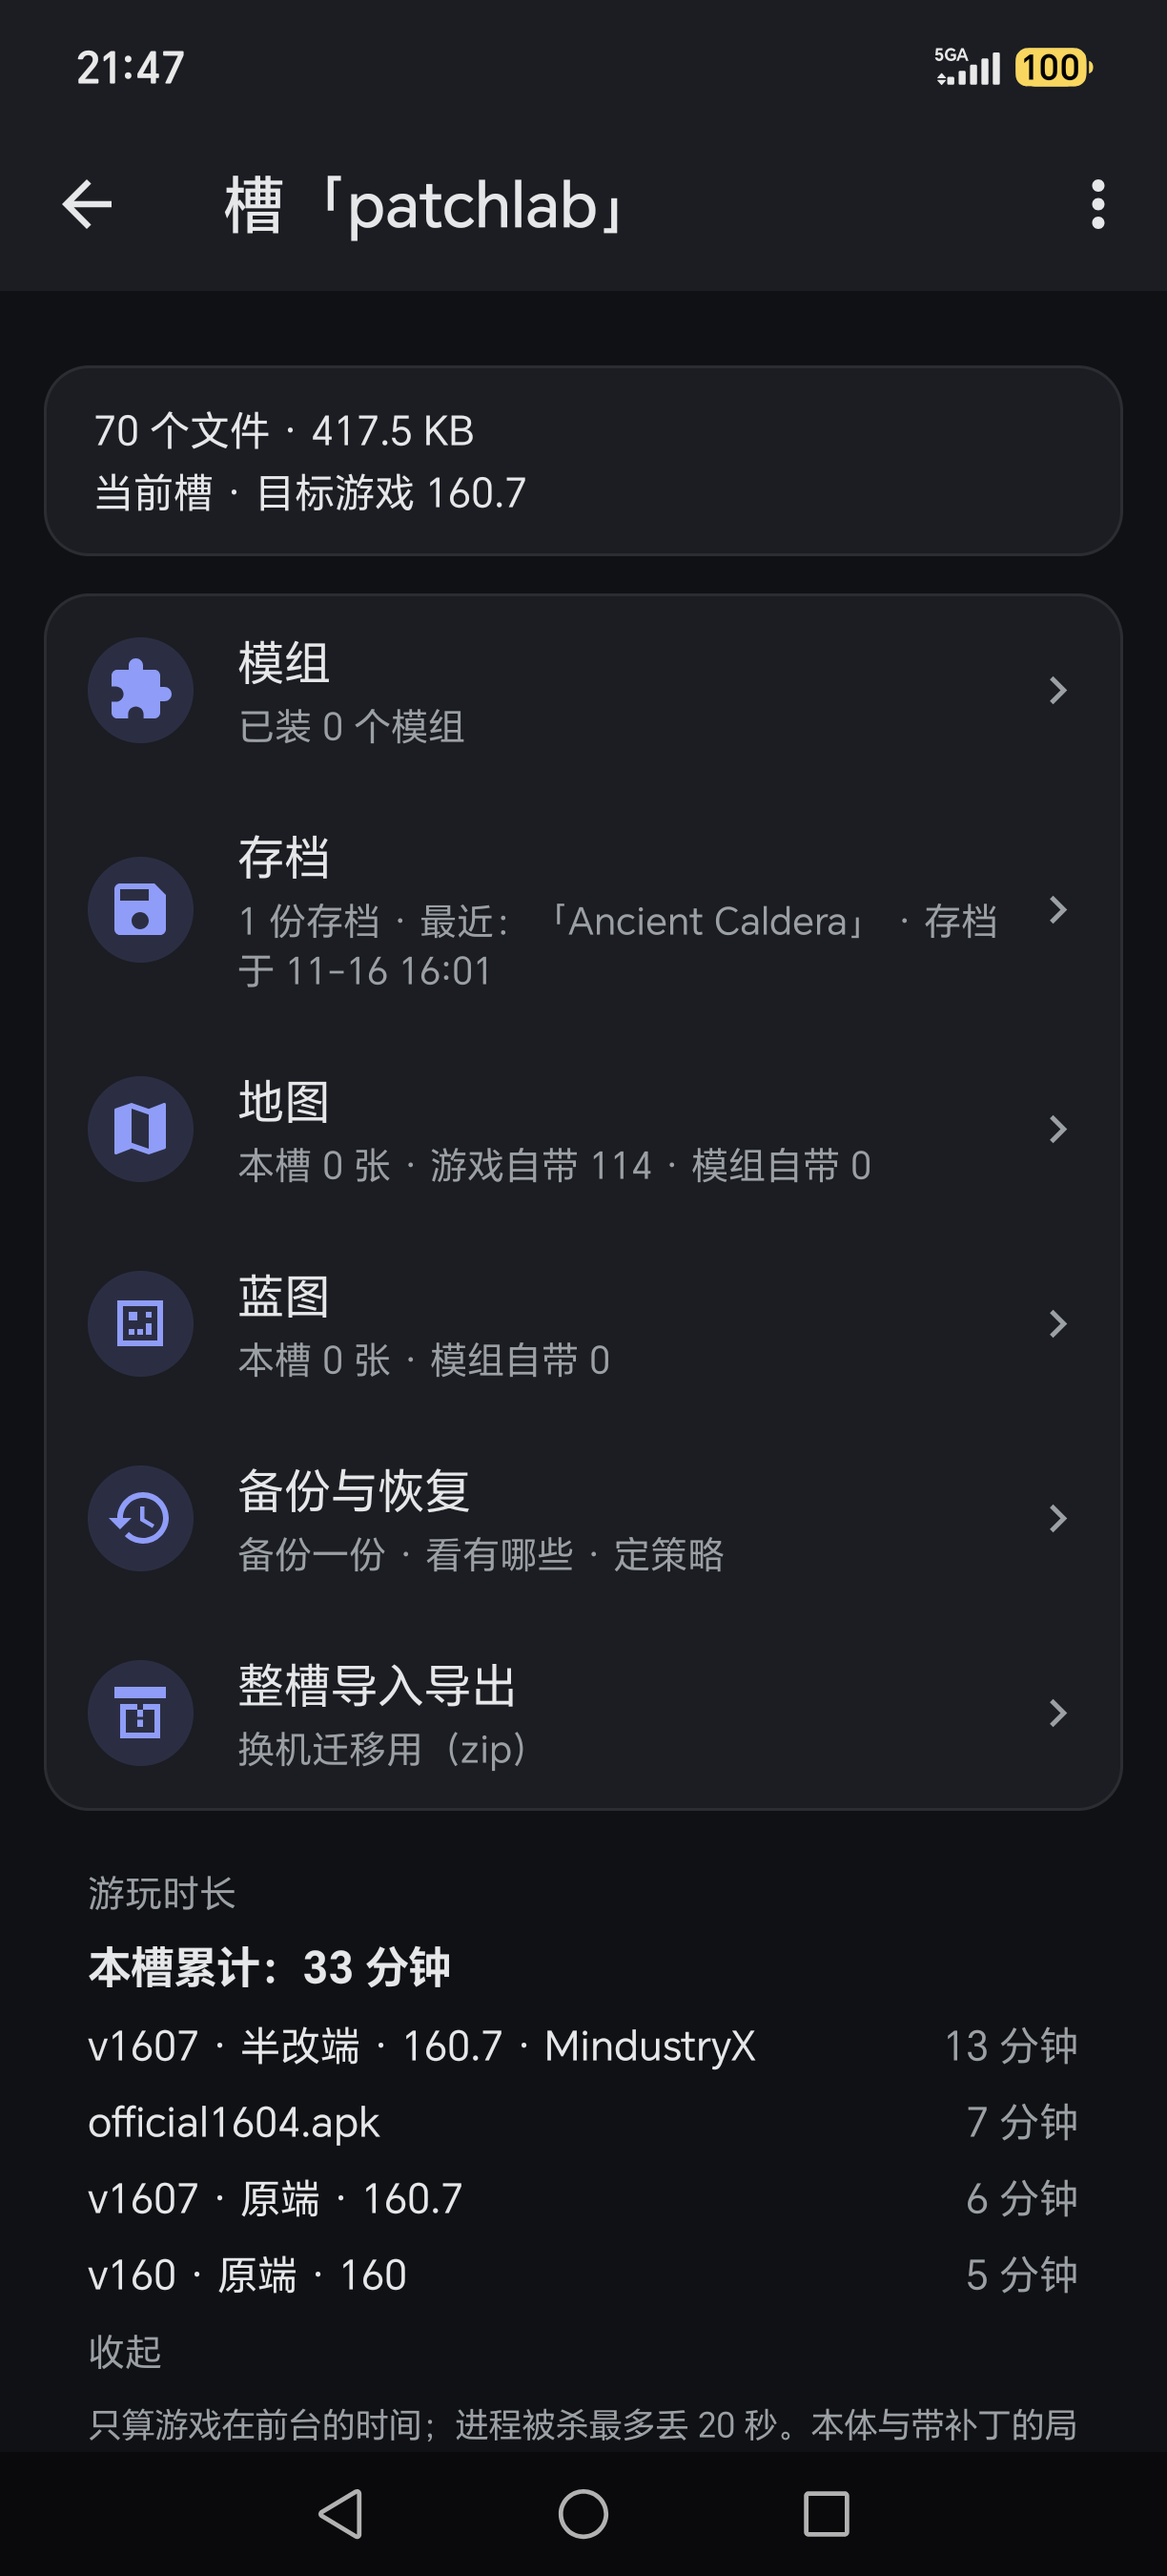
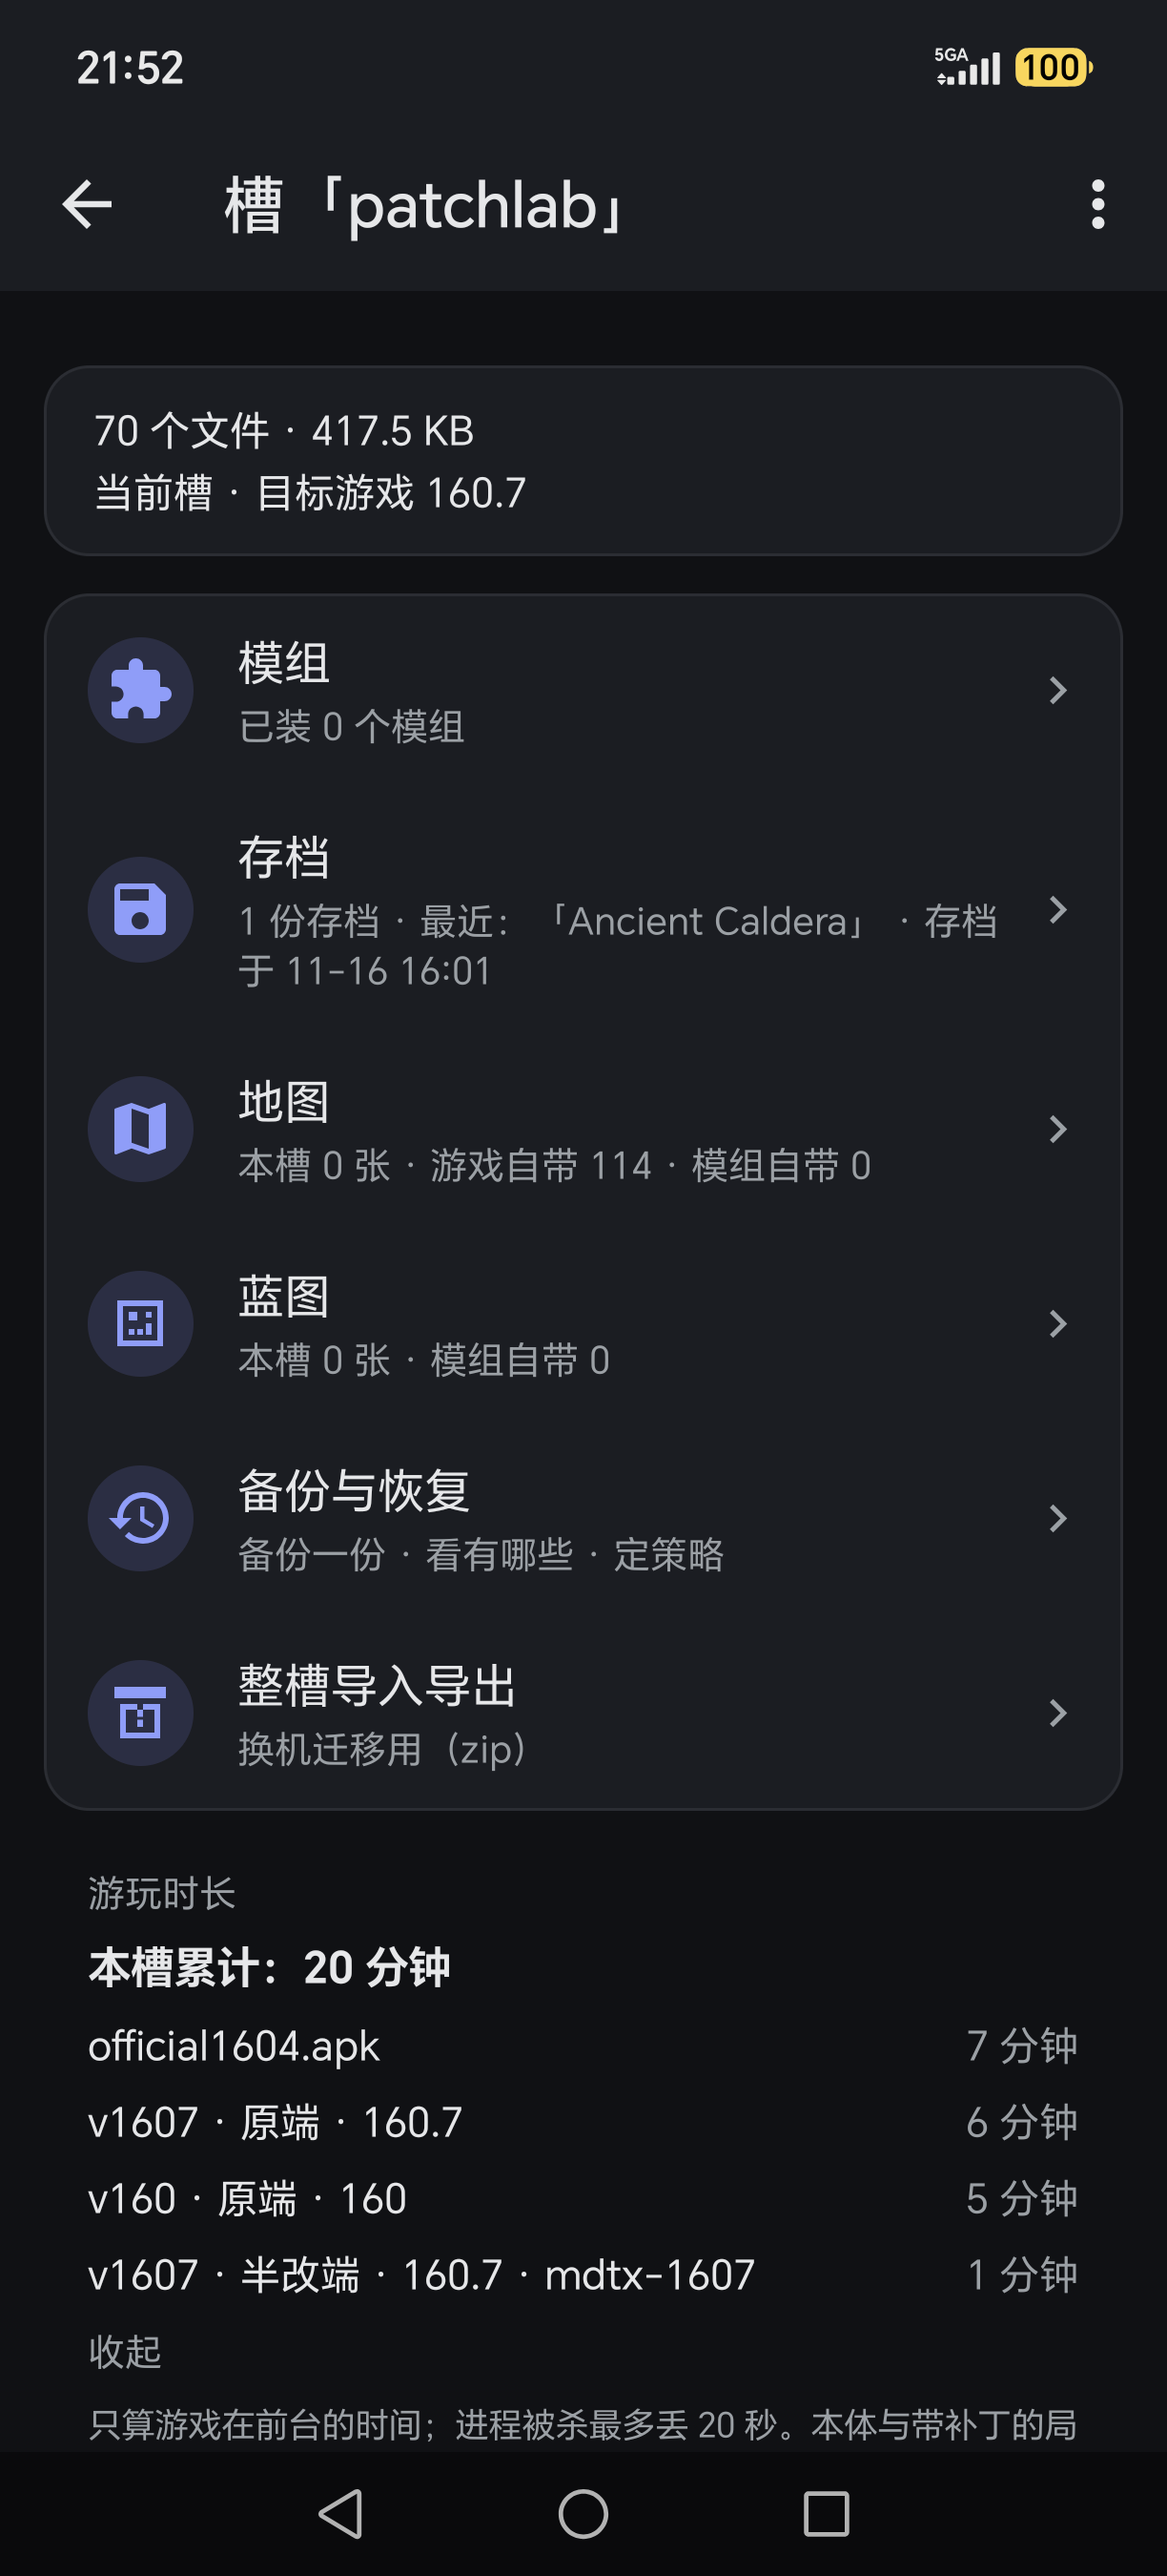
第 391 轮：补丁账行改用补丁自己的 id，不再显示 MindustryX
- manifest 的 name 是「MindustryX (原版 + 补丁)」，那是改端描述，不是补丁名；
  上一版截成 MindustryX 会让人误以为补丁叫 MindustryX。
- 带补丁行改为 ref 的 id：v1607 · 半改端 · 160.7 · mdtx-1607；多补丁 id +N。
- ref 为空时才回落到 label（仍去掉解释性括号）。
- 真机截图更新；测试账行已删、ledger 21 行 / total 6740573 还原。
- usagestats CHECK OK；宿主自检 2321 / 0；产品构建 OK。

diff --git a/plugins/usagestats/src/io/mdt/plugins/usagestats/UsageStats.java b/plugins/usagestats/src/io/mdt/plugins/usagestats/UsageStats.java
@@ -222,16 +222,16 @@ public final class UsageStats {
     }
 
     private static String shortPatch(Context c, Playtime.Entry e, int count) {
-        String label = e.patchLabel == null ? "" : e.patchLabel.trim();
-        // 「MindustryX (原版 + 补丁)」→「MindustryX」；解释性括号不进 13sp 的单行。
-        label = label.replaceAll("\\s*[\\(（][^()（）]*[\\)）]", "").trim();
+        // 补丁的名字用 **ref 的 id**（`mdtx-1607`）—— manifest 的 name 是
+        // 「MindustryX (原版 + 补丁)」，那是游戏/改端的描述，不是补丁名；
+        // 直接截成 MindustryX 会被误认成"补丁叫 MindustryX"。
+        String id = refId(firstRef(e.patch));
         if (count > 1) {
-            String id = refId(firstRef(e.patch));
-            if (id.isEmpty()) id = label;
             return id.isEmpty() ? "" : c.getString(R.string.us_patch_more_fmt, id, count - 1);
         }
-        if (!label.isEmpty()) return label;
-        return refId(firstRef(e.patch));
+        if (!id.isEmpty()) return id;
+        String label = e.patchLabel == null ? "" : e.patchLabel.trim();
+        return label.replaceAll("\\s*[\\(（][^()（）]*[\\)）]", "").trim();
     }
 
     private static String firstRef(String refs) {

diff --git a/plugins/usagestats/README.md b/plugins/usagestats/README.md
@@ -12,7 +12,7 @@
   ★ 2026-11-11 起它在**所有动作行之后**（用户：「槽页面那个游玩时长建议放在所有按钮的下面」）；
   已装游戏原地更新后，更新前后是**两行**（老版本的时间不会被新版本顶走）；
   ★ 第 388 轮起**本体 + 补丁 ≠ 本体**：带补丁的一局单独一行，行名是
-  带补丁行：`版本 · 半改端 · 版本号 · 补丁名`（补丁名只留短名；快照丢了就只留 `半改端`）；
+  带补丁行：`版本 · 半改端 · 版本号 · 补丁名`（补丁名用 ref 的 id（如 `mdtx-1607`，不是 manifest 的展示名）；快照丢了就只留 `半改端`）；
 - **主界面摘要卡**：总时长一行（`plugin.json` 的 `playtimeTotal` 声明一个整数文件，宿主只排版）。
 
 ## 组成
